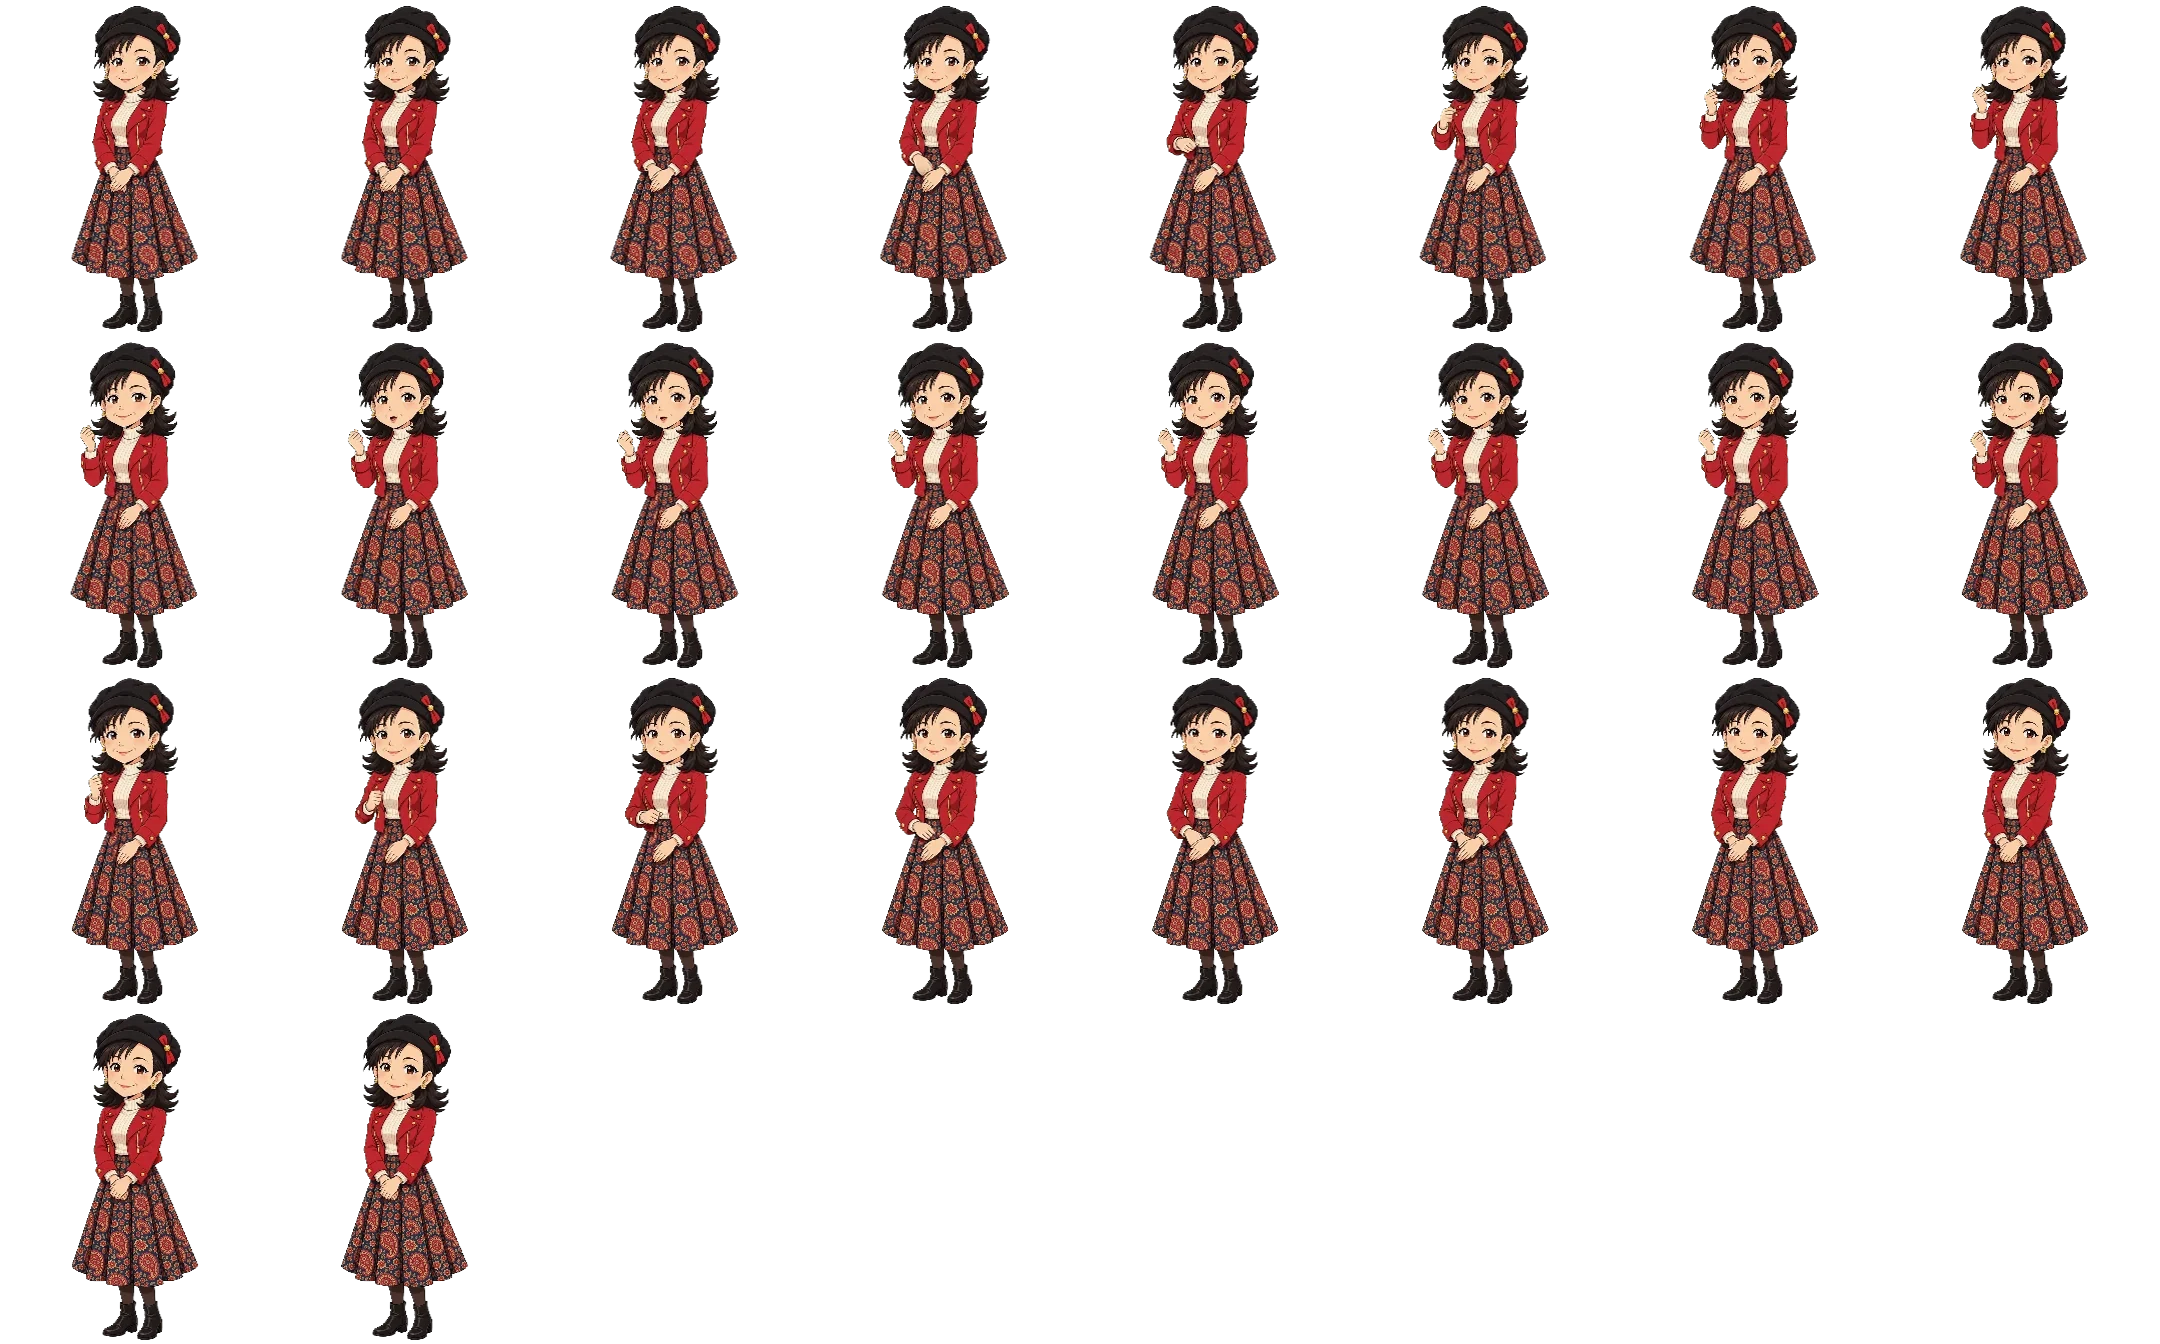
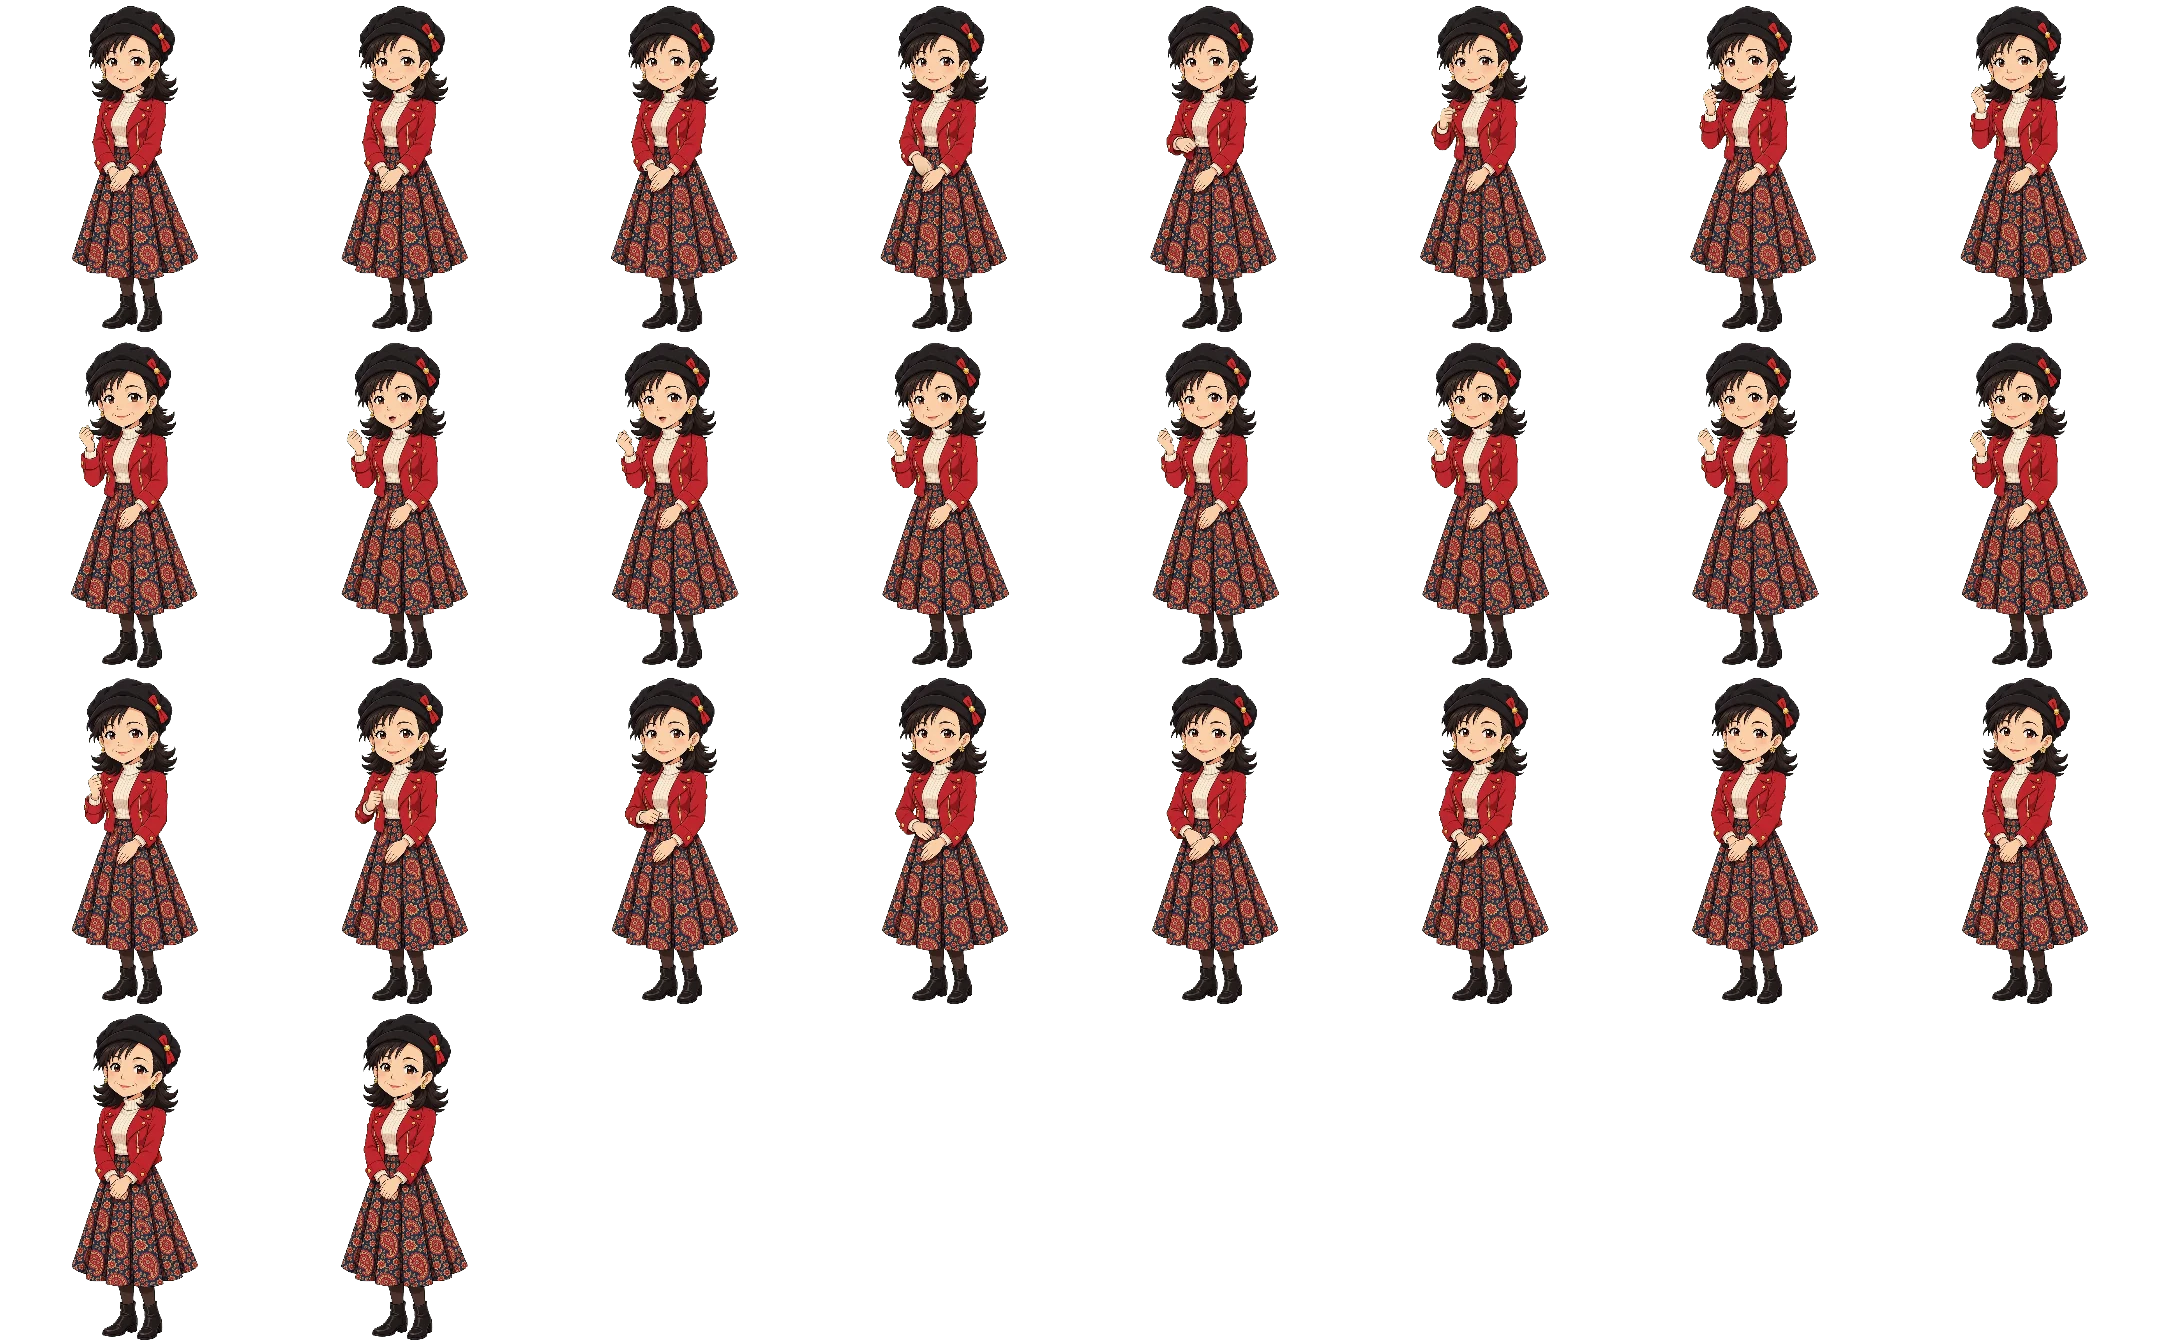
v1.58: 珍英 blinks on her own chibi face (half/closed eye art); the v1.57 per-row straightening is rolled back (it bent her face mid-motion)
Claude-Session: https://claude.ai/code/session_01WZLqZseQ84zHkrkNDgDySm

diff --git a/index.html b/index.html
@@ -21,7 +21,7 @@
 <details><summary>固定配牌練習</summary><p>以下是固定牌例，包含已進行到中途的牌桌；正式遊玩請選「開始新場」。</p><div class="prototype-scenes"><button type="button" data-scene="normal">中途牌桌練習</button><button type="button" data-scene="chi">多組吃牌練習</button><button type="button" data-scene="ready">聽牌選牌練習</button><a href="./layout-check.html" data-overlay>桌面草圖對照</a></div></details>
 <button id="resume-match" class="primary" type="button" hidden>返回暫停的整場</button><button id="back-title" type="button">回到標題畫面</button><button id="fullscreen-toggle" type="button" hidden>全螢幕遊玩</button><details><summary>開始新場</summary><div class="new-game"><label>指定編號（選填） <input id="seed" type="number" min="0" max="4294967295" placeholder="留白隨機開局"></label><label>場次長度 <select id="rounds"><option value="4">四圈完整場</option><option value="1">一圈短場</option></select></label><button id="new" class="primary">開始新場</button></div><p>目前場次編號：<span id="current-seed"></span>。留白會重新隨機發牌；相同編號與相同角色順序可重播同一場。每場重新抽風位、擲骰定首莊，畫面以自家為下方。完成的場次會保留最近 20 場角色與分數；未完成的場次請先下載紀錄再重開。</p></details>
 <details><summary>練習牌例與規則</summary><p>練習牌例獨立進行，不計入整場；進行中的整場會暫停保留，可從選單「返回暫停的整場」。</p><div class="training"><button data-demo="ready">聽牌宣告</button><button data-demo="win">自摸／過水</button><button data-demo="kan">宣告後暗槓</button></div><p>一人＋三位電腦，依手牌進度、可改善牌張與公開風險選擇操作。底 100／台 50；對位花、連莊無上限。普通宣告加 1 台，可以過水；天聽、地聽有胡必胡。日本玩法留待後續版本。</p><p>人胡須放槍者首次出牌，且全桌尚未吃碰。抓位為本作開場流程，不影響每手按開門位置決定的門風。正式多人連線與角色故事尚未接入。</p></details>
-<details><summary>本局行動紀錄 <span id="log-count"></span></summary><ol id="log"></ol></details><p id="feedback" role="status"></p><footer>線上可玩預覽 v1.57 · 角色演出測試台</footer></dialog>
+<details><summary>本局行動紀錄 <span id="log-count"></span></summary><ol id="log"></ol></details><p id="feedback" role="status"></p><footer>線上可玩預覽 v1.58 · 角色演出測試台</footer></dialog>
 <dialog id="chow-dialog"><div class="dialog-head"><h2>選擇吃牌組合</h2><button id="chow-close">取消</button></div><p id="chow-source"></p><div id="chow-options"></div></dialog><dialog id="meld-dialog"><div class="dialog-head"><h2>已吃碰槓牌</h2><button id="meld-close">返回牌桌</button></div><div id="meld-summary"></div></dialog><dialog id="history-dialog"><div class="dialog-head"><h2>場次紀錄</h2><button id="history-close">返回牌桌</button></div><section id="match-summary"></section></dialog>
 <dialog id="river-dialog"><div class="dialog-head"><h2>四家棄牌</h2><button id="river-close">返回牌桌</button></div><p>淡色牌已被吃碰槓；排列順序由左到右。</p><div id="river-detail"></div></dialog><dialog id="sticker-dialog"><div class="dialog-head"><h2 id="sticker-title">角色演出</h2><button id="sticker-close">返回牌桌</button></div><div class="actor-menu"><div id="actor-tabs" role="tablist" aria-label="角色"></div><div class="actor-body"><div id="actor-own"><button id="send-sticker" aria-label="秀出自己的角色"><img id="sticker-image" alt=""><span>角色亮相</span></button></div><div id="actor-shows"></div></div></div></dialog><link rel="preload" as="image" href="./assets/title-v1/title-bg.webp" fetchpriority="high"><link rel="preload" as="image" href="./assets/title-v1/logo-ja.webp" fetchpriority="high"><script type="module">/* v1.05 · title art first: on a slow phone network the table's many images would otherwise crowd out the title cover (it stayed blank). Start the game once the cover and logo are in, or after 4 s. */const im=u=>new Promise(r=>{const i=new Image();i.onload=i.onerror=()=>r();i.src=u;});await Promise.race([Promise.all(['./assets/title-v1/title-bg.webp','./assets/title-v1/logo-ja.webp'].map(im)),new Promise(r=>setTimeout(r,4000))]);await import('./app.mjs');</script></body></html>
 
